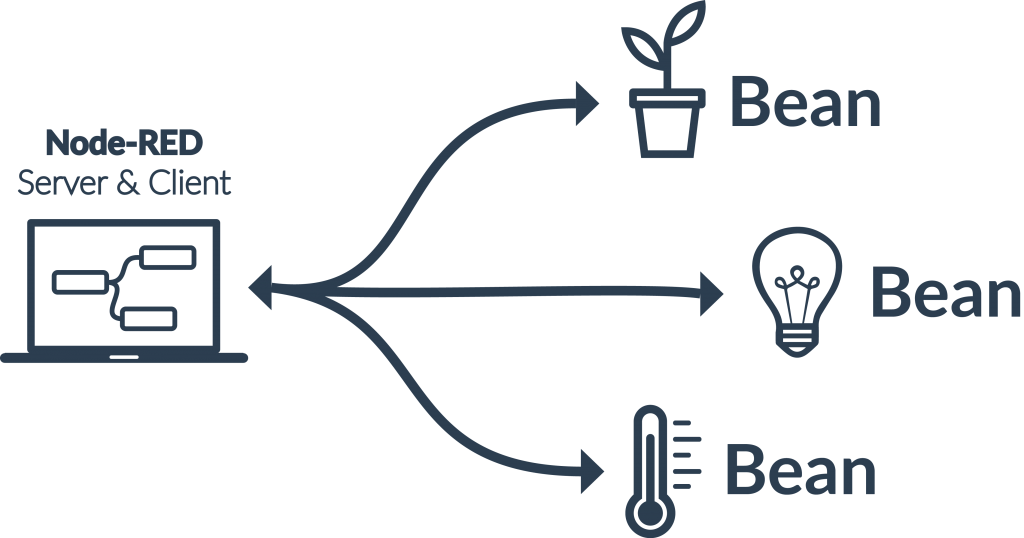
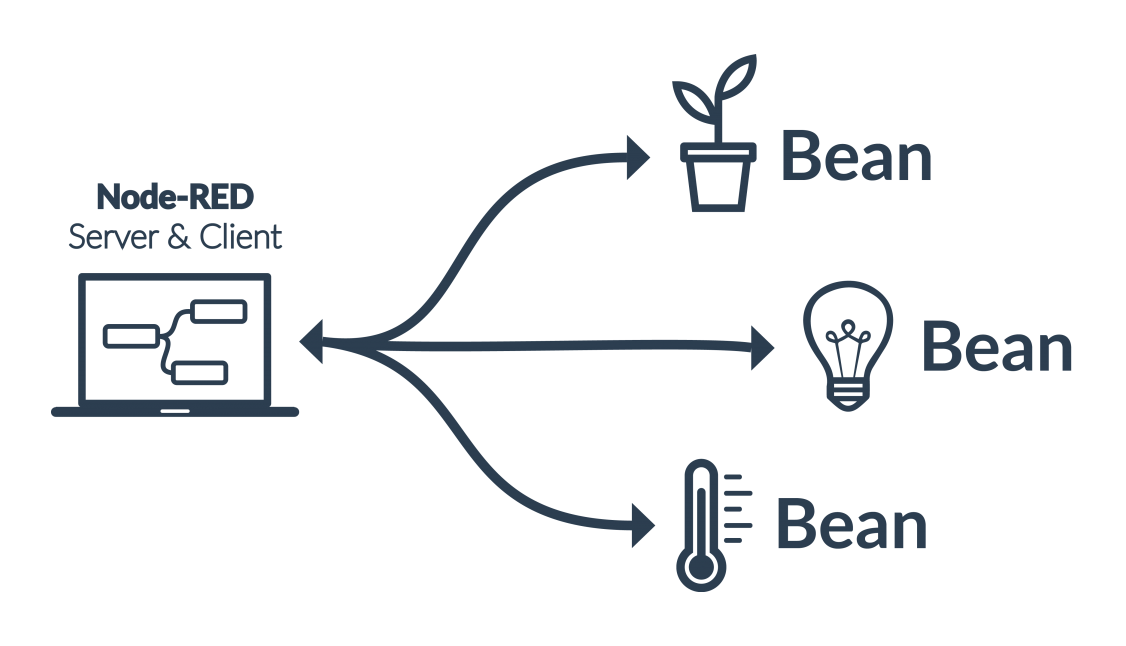
node-red: improvements to images and content

Changed region(s): [[0.0, 0.0, 1.0, 1.0]]

diff --git a/src/node-red/what-is-node-red.md b/src/node-red/what-is-node-red.md
@@ -7,17 +7,13 @@ order: 1
 
 ## Introduction
 
----
-
-Welcome to the Node-RED guide for the LightBlue Bean.  This guide will walk you through the steps neccessary to connect your Bean to another device using internet technologies like Node.js.  The particular techology we will be using is Node-RED, a visual programming interface that requires very little coding experience.
+This guide will walk you through the steps neccessary to connect your Bean to another device using Node-RED, a visual programming interface that requires very little coding experience.
 
 ## Node-RED Basics
  
----
-
 Node-RED is based on Node.js. The Node-RED application runs as a web server, and you customize and manipulate functional “flows” from any computer’s browser, local or remote. Every Node-RED app consists of nodes which are linked together to form the logical flow of your application. The nodes typically fall under _input_, _operation_ or _output_.
 
-Below is a very simple example of how these different nodes would interact with eachother.
+Below is a very simple example of how these different nodes would interact with each other.
 
 {{{img_rel this 'generic_node_red.png' 'Generic Node-RED app' '70%'}}}
 
@@ -25,12 +21,12 @@ In reality, you wouldn't have nodes with such generic names as "input" or "outpu
 
 {{{img_rel this 'bean-nodes.png' 'Bean Nodes' '50%'}}}
 
-* __Acceleration__ - Get accelerometer data from the Bean.
-* __Serial__ - Send or recieve serial messages to or from the Bean.
-* __Temperature__ - Get the ambient temperature from the Bean.
-* __Read Scratch__ - Read scratch data set by the Bean. 
-* __RGB LED__ - Set the Bean's LED to a specified color.
-* __Write Scratch__ - Write scratch data for the Bean. 
+* __Acceleration:__ Get accelerometer data from Bean.
+* __Serial:__ Send or recieve serial messages to or from Bean.
+* __Temperature:__ Get the ambient temperature from Bean.
+* __Read Scratch:__ Read scratch data set by Bean. 
+* __RGB LED:__ Set Bean's LED to a specified color.
+* __Write Scratch:__ Write scratch data to Bean. 
 
 Each of the nodes defined above can be used in a Node-RED application once you install these nodes into your Node environment. We will cover installation and setup in following sections.
 
@@ -40,25 +36,18 @@ Check out the following example of a Node-RED app that grabs temperature data fr
 
 ## Possible Configurations
 
----
-
-Node-RED apps for the web in traditional client/server fashion. Most of the time you will run both the server and client on your computer. However, a more powerful configuration might be to run your server on a dedicated machine that rarely or never turns off. As long as your server machine is within range of a Bean for connection, this setup can open a whole new world of possibilities. See the diagrams below to get a visual respresentation of these concepts.
-
-__Basic Setup:__
+Node-RED apps for the web in traditional client/server fashion. Most of the time you will run both the server and client on your computer:
 
 {{{img_rel this 'pc_node_red_setup.png' 'PC Server Node-RED' '70%'}}}
 
-__Dedicated Server using a Raspbery Pi:__
+However, a more powerful configuration might be to run your server on a dedicated machine that rarely or never turns off. As long as your server is within connection range of a Bean, this setup can open a whole new world of possibilities.
 
 {{{img_rel this 'rpi_node_red_setup.png' 'Rpi Server Node-RED' '100%'}}}
 
-
 ## Next Steps
 
----
+Now that you have a basic understanding of what Node-RED is and how it can be used to quickly start connecting Beans to your computer and internet, you can get started by installing Node-RED:
 
-Now that you have a basic understanding of what Node-RED is and how it can be used to quickly start connecting beans to your computer and internet, check out the following guides:
+[Install Node-RED >>](../installation)
 
-* [Installation guide](/node-red/installation)
-* [Bean Nodes guide](/node-red/bean-nodes)
-* [Official Node-RED docs](http://nodered.org/docs/)
+You may also want to check out the [official Node-RED docs](http://nodered.org/docs/).

diff --git a/src/node-red/installation.md b/src/node-red/installation.md
@@ -9,12 +9,9 @@ order: 2
 
 ---
 
-Welcome to the Node-RED installation guide. This guide will help you get your system ready to use with Node-RED as well as the custom nodes used to communicate with the Bean.
- 
+This guide will help you install Node-RED and the custom nodes used to communicate with Bean.
 
 ## Install Node-RED
-
----
 
 Since Node-RED uses Node.js it can be used on any of the core desktop platforms such as OSX, Windows and Linux. Go ahead and follow the installation guide provided by Node-RED to get it running on your system.
 
@@ -28,15 +25,13 @@ If you are interested in setting up a Raspberry Pi or BeagleBone Black for a ded
 
 ## Install Bean Nodes
 
----
-
 {{{img_rel this 'bean-nodes.png' 'Bean Nodes' '50%'}}}
 
-These nodes are developed and maintained by Punch Through and must be installed seperately. First, it is important to understand that these nodes have a dependency on Bluetooth, since they are designed to talk to the Bean. This is done by using a Node library called [Noble](https://github.com/sandeepmistry/noble).
+These nodes are developed and maintained by Punch Through and must be installed seperately. First, it is important to understand that these nodes have a dependency on Bluetooth, since they are designed to talk to Bean. This is done by using a Node library called [Noble](https://github.com/sandeepmistry/noble).
 
 Noble has it's own dependencies which need to be installed. Check out the [prerequisites section](https://github.com/sandeepmistry/noble#prerequisites) of the project README before you continue.
 
-Finally, in order to make use of the Bean Nodes, you must install them in a place that Node-RED can find them. Run the following commands in a terminal.
+Finally, in order to make use of Bean nodes, you must install them in a place that Node-RED can find them. Run the following commands in a terminal.
 
 * `mkdir -p ~/.node-red/node_modules`
 * `npm install --prefix ~/.node-red node-red-contrib-bean`
